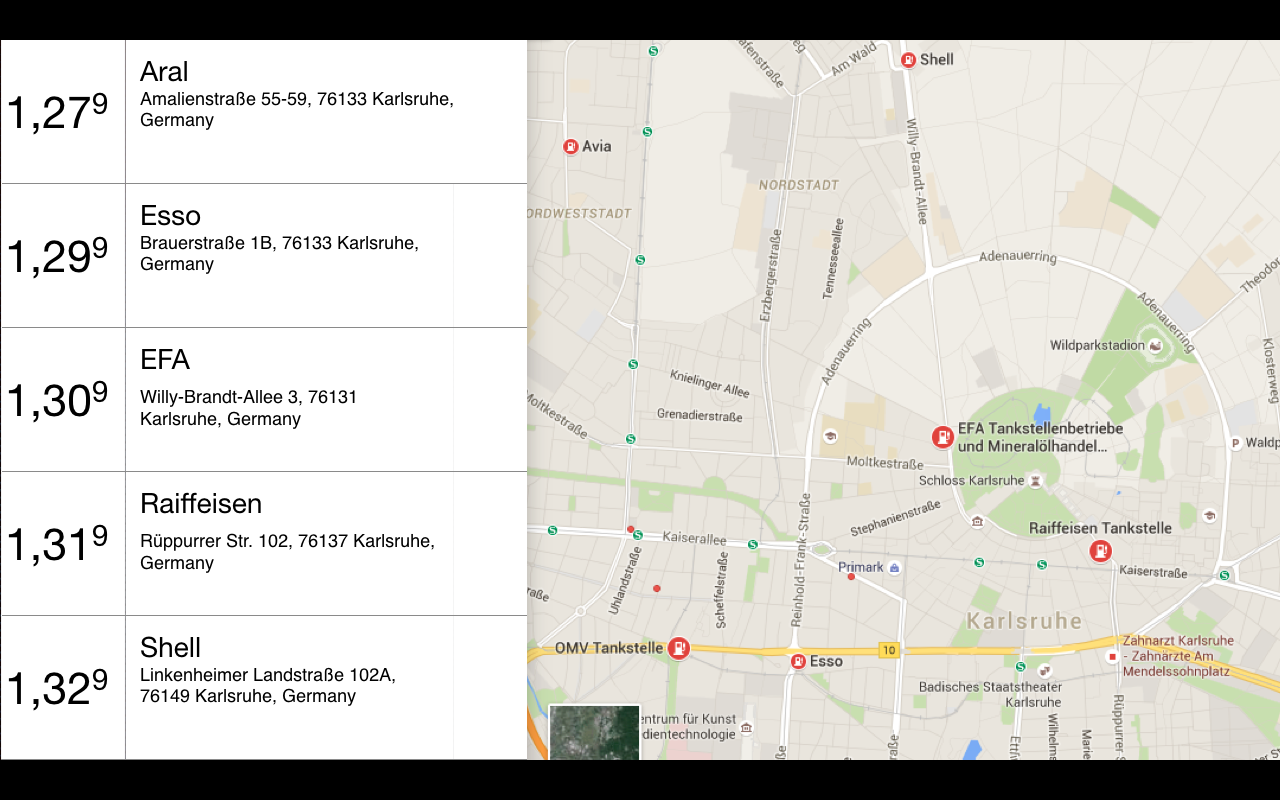
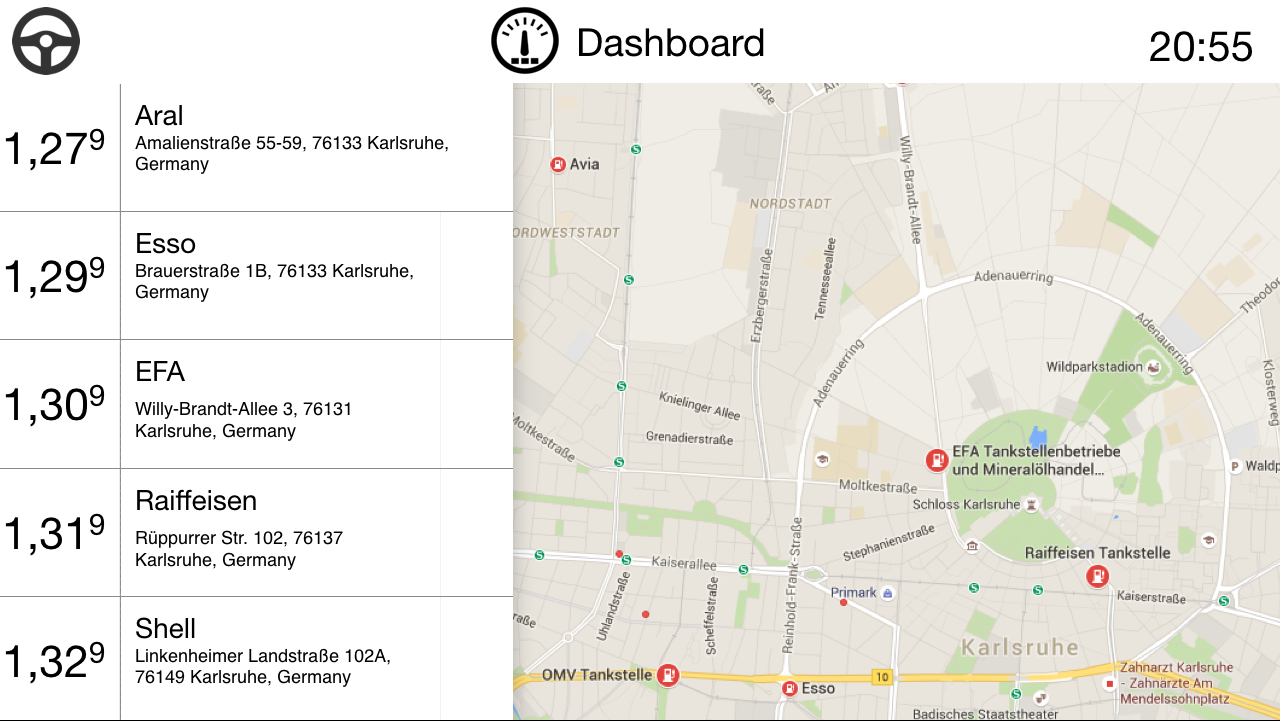
UI etwas überarbeitet

diff --git a/myDoc/UI.tex b/myDoc/UI.tex
@@ -10,7 +10,7 @@ Der Nutzer soll GUI-Instrumente anzeigen und ausblenden können. Zu den GUI-Inst
 
 \section{Dashboard}
 
-Das Dashboard besteht aus verschiedenen Anzeigeelementen, sogenannten Dashes, und oben einer Leiste auf der links das Icon unserer Software angezeigt wird. Mittig ist der Einstellungsbutton über den man in die Einstellungsansicht wechseln kann. Und rechts wird die Uhrzeit angezeigt. Diese Leiste ist immer zu sehen. Deren Elemente können sich jedoch, je nach aktueller Anzeige, ändern.
+Das Dashboard besteht aus verschiedenen Anzeigeelementen, sogenannten Dashes, und oben einer Leiste auf der verschiedene Informationen dargestellt werden. Links wird, beim Fahrer, ein Lenkrad angezeigt. Mittig ist der Einstellungsbutton über den man in die Einstellungsansicht wechseln kann. Und rechts wird die Uhrzeit angezeigt. Diese Leiste ist immer zu sehen. Deren Elemente können sich jedoch, je nach aktueller Anzeige, ändern.
 
 \begin{figure}[H]
   	\begin{center}
@@ -80,16 +80,22 @@ Weitere mögliche Anzeigeelemente neben Live-Anzeigen sind Graphen, auf denen St
 Die Tabelle kann in verschiedenen Anzeigen genutzt werden. Die Tabellengröße, also die Anzahl der Spalten und Zeilen, ist variabel. In der Tabelle kann man scrollen und ihre Zellen können mit verschiedenen Elementen, wie z.B. Bildern oder Text, gefüllt werden. Bei Berührung einer Zelle kann eine Funktion aufgerufen werden.\\
 Genutzt wird eine Tabelle z.B. in der ~\nameref{sec:Karte}. 
 
-Eine Anzeige, in der die Tabelle sogar hauptsächlich zur Anwendung kommt, sind Einstellungen. Hier werden zuerst alle Einstellungskategorien in der Tabelle angezeigt. Bei Druck auf Eine wird die Anzeige der gewählten Kategorie geöffnet. Hier werden in einer Tabelle die verschiedenen Konfigurationsmöglichkeiten dargestellt. Diese lassen sich auch wieder über einen Druck auf das Tabellenelement beeinflussen. Hier wird dann eine kleine Tabelle mit den Optionen oder falls nötig ein beschreibbares Textfeld angezeigt. In dem folgenden Beispiel wird die Auswahl der Dashes angezeigt. Hier wird bei Druck auf ein Element ein Haken angezeigt um zu zeigen, dass dieses Dash ausgewählt ist. Bei erneutem Druck wird das Element wieder abgewählt und der Haken verschwindet.
-
-Das verlassen der Tabelle ist möglich über die mittig in der obigen Leiste befindliche Schaltfläche mit dem Namen der letzten Anzeige. Hier ist es z.B. möglich aus der obersten Einstellungsanzeige wieder auf das Dashboard zu wechseln. Vorgenommene Einstellungen werden erst bei verlassen der Einstellungen aktiv.  
-
 \begin{figure}[H]
   	\begin{center}
  		\includegraphics[width=\textwidth]{Images/GUI-Settings.png}
   		\caption{Beispiel: Tabelle mit den verschiedenen verfügbaren Informationen.}
   	\end{center}
 \end{figure}
+
+
+Eine Anzeige, in der die Tabelle sogar hauptsächlich zur Anwendung kommt, sind Einstellungen. Hier werden zuerst alle Einstellungskategorien in der Tabelle angezeigt, diese sind die Anzeigeelemente und Allgemeine Konfigurationen wie der "niedrige Tankfüllstand". Bei Druck auf eine Kategorie wird die Anzeige der gewählten Kategorie geöffnet. Hier werden in einer Tabelle die verschiedenen Konfigurationsmöglichkeiten dargestellt. Diese lassen sich auch wieder über einen Druck auf das Tabellenelement beeinflussen. 
+%Hier wird dann eine kleine Tabelle mit den Optionen oder falls nötig ein beschreibbares Textfeld angezeigt.
+In dem folgenden Beispiel wird die Auswahl der Dashes angezeigt. Hier lässt sich ein Element per Druck auswählen und wieder abwählen. Der Status wird über den Haken angezeigt.
+
+In den gesamten Einstellungen kann man sich oben rechts über das Kästchen mit dem Haken zum Fahrer machen.
+
+Das verlassen der Tabelle ist möglich über die mittig in der obigen Leiste befindliche Schaltfläche mit dem Namen der letzten Anzeige. Hier ist es z.B. möglich aus der obersten Einstellungsanzeige wieder auf das Dashboard zu wechseln. Vorgenommene Einstellungen werden erst bei verlassen der Einstellungen aktiv.  
+
 
 \clearpage
 \section{Karte}
